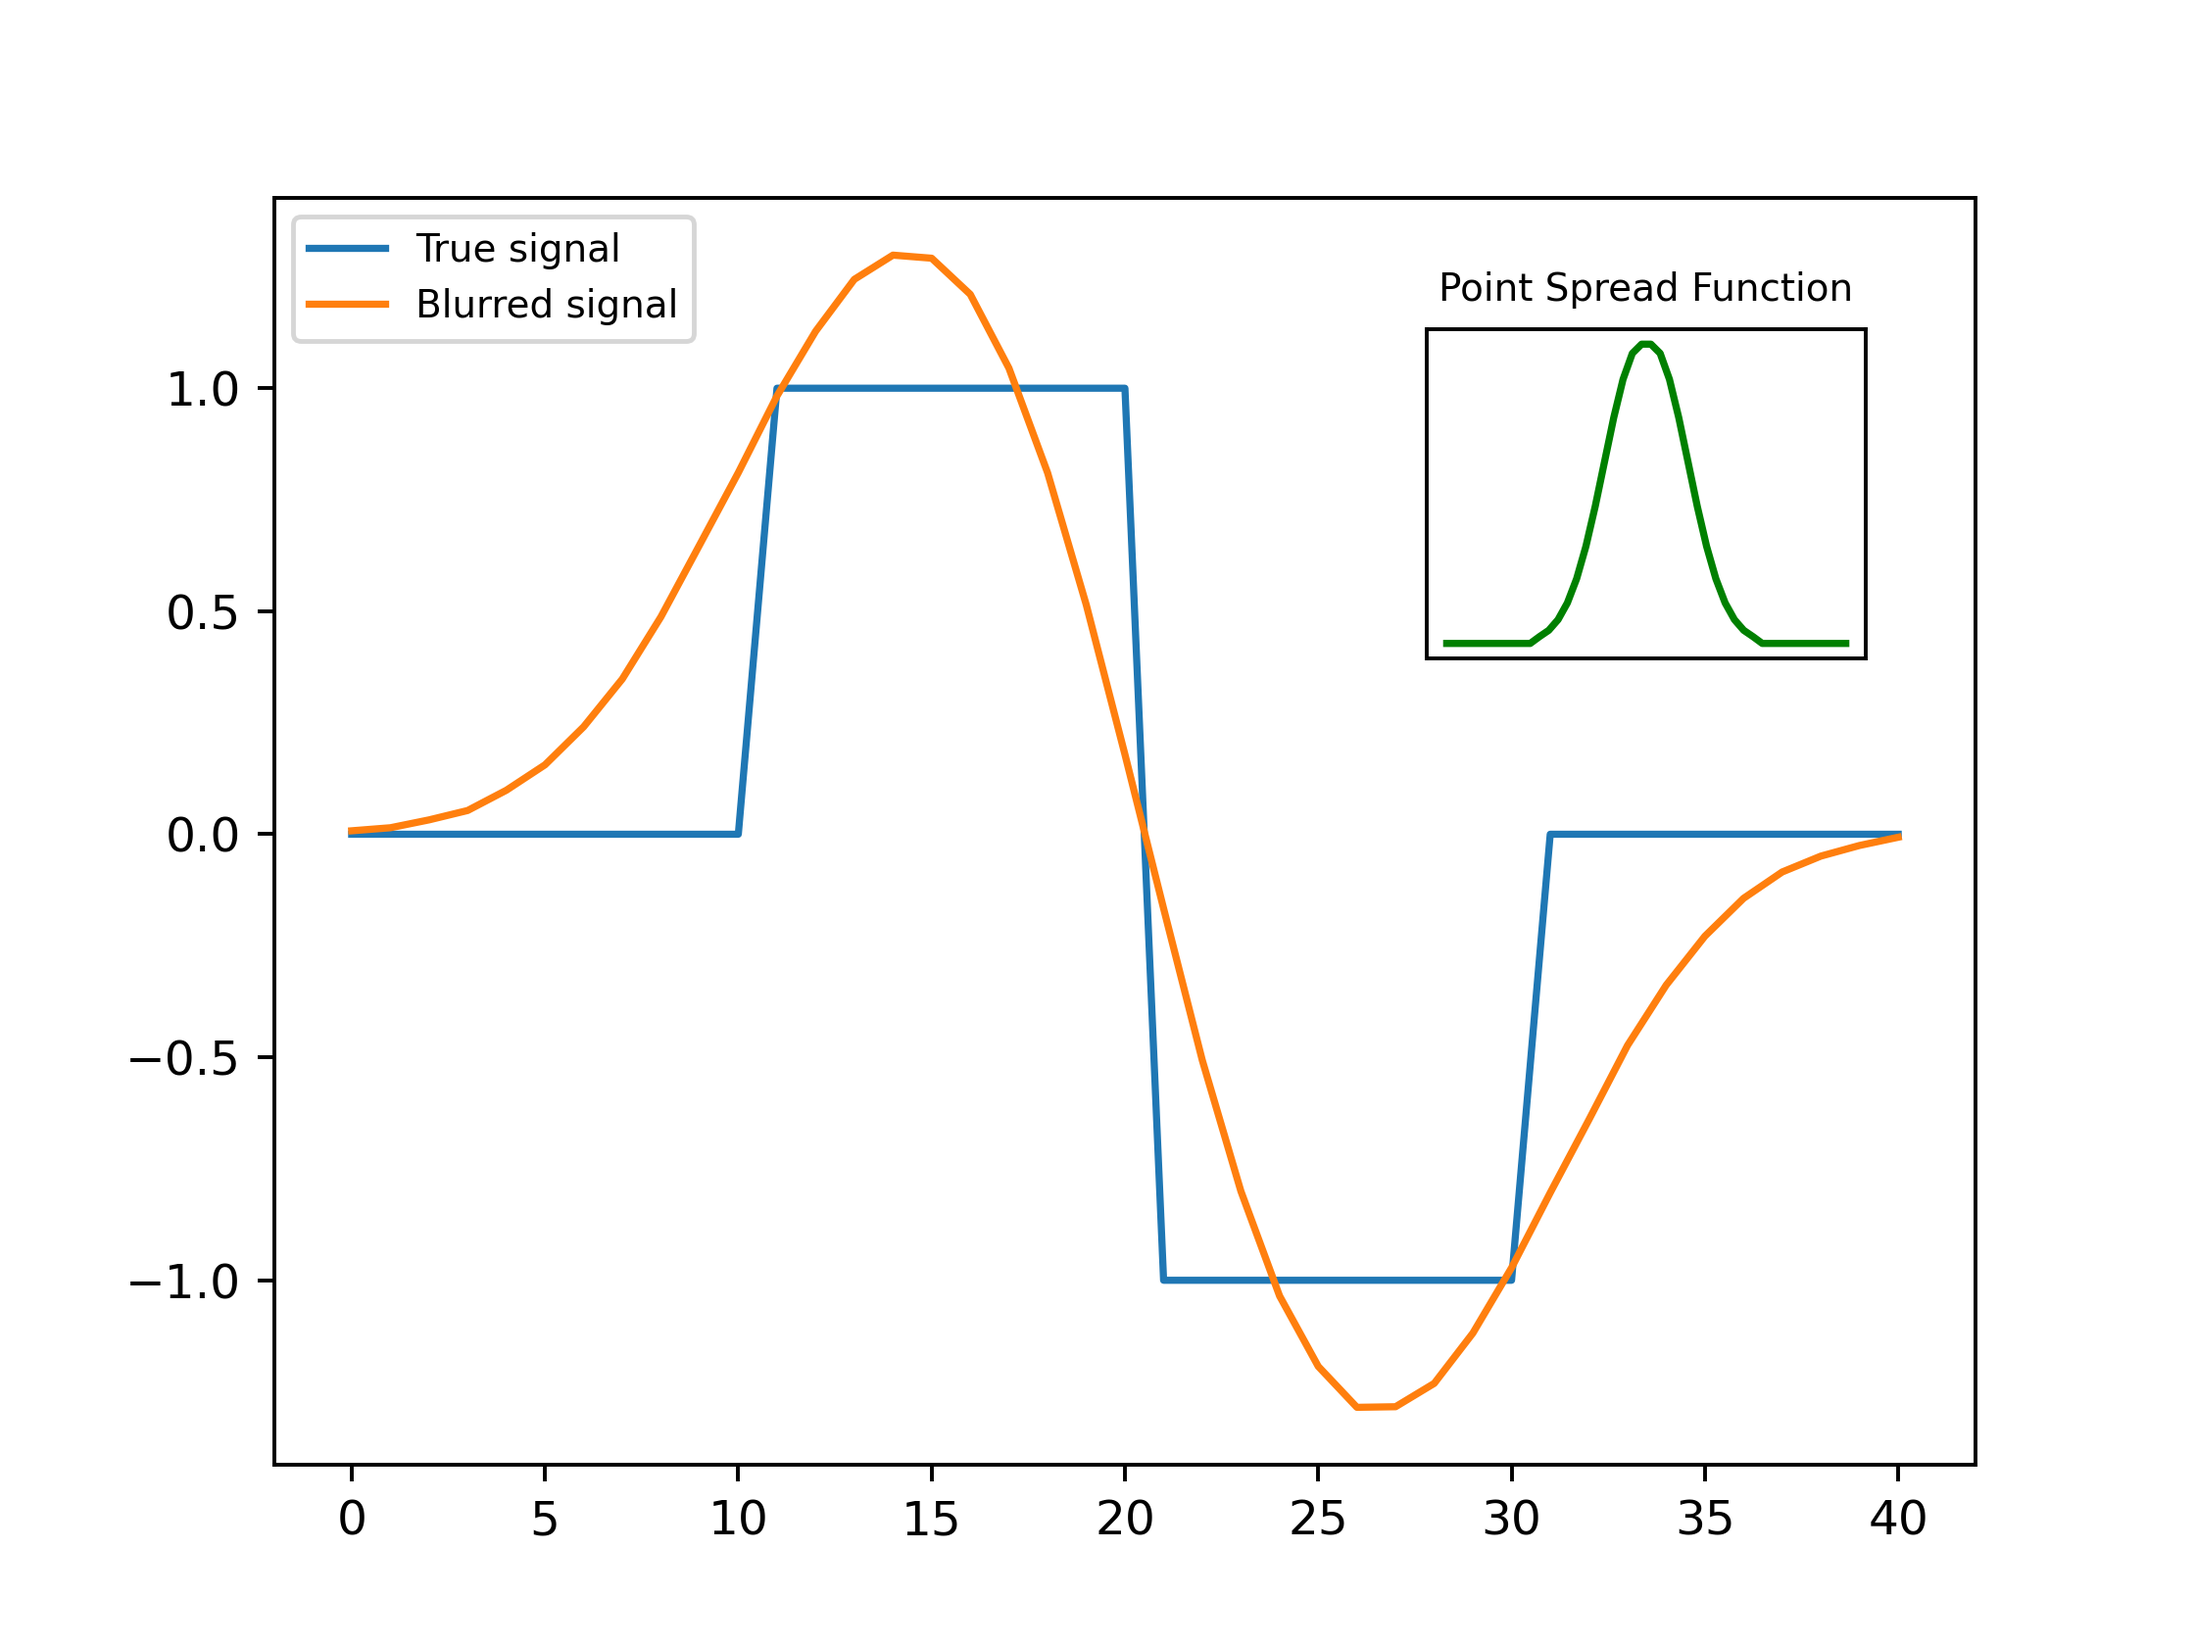
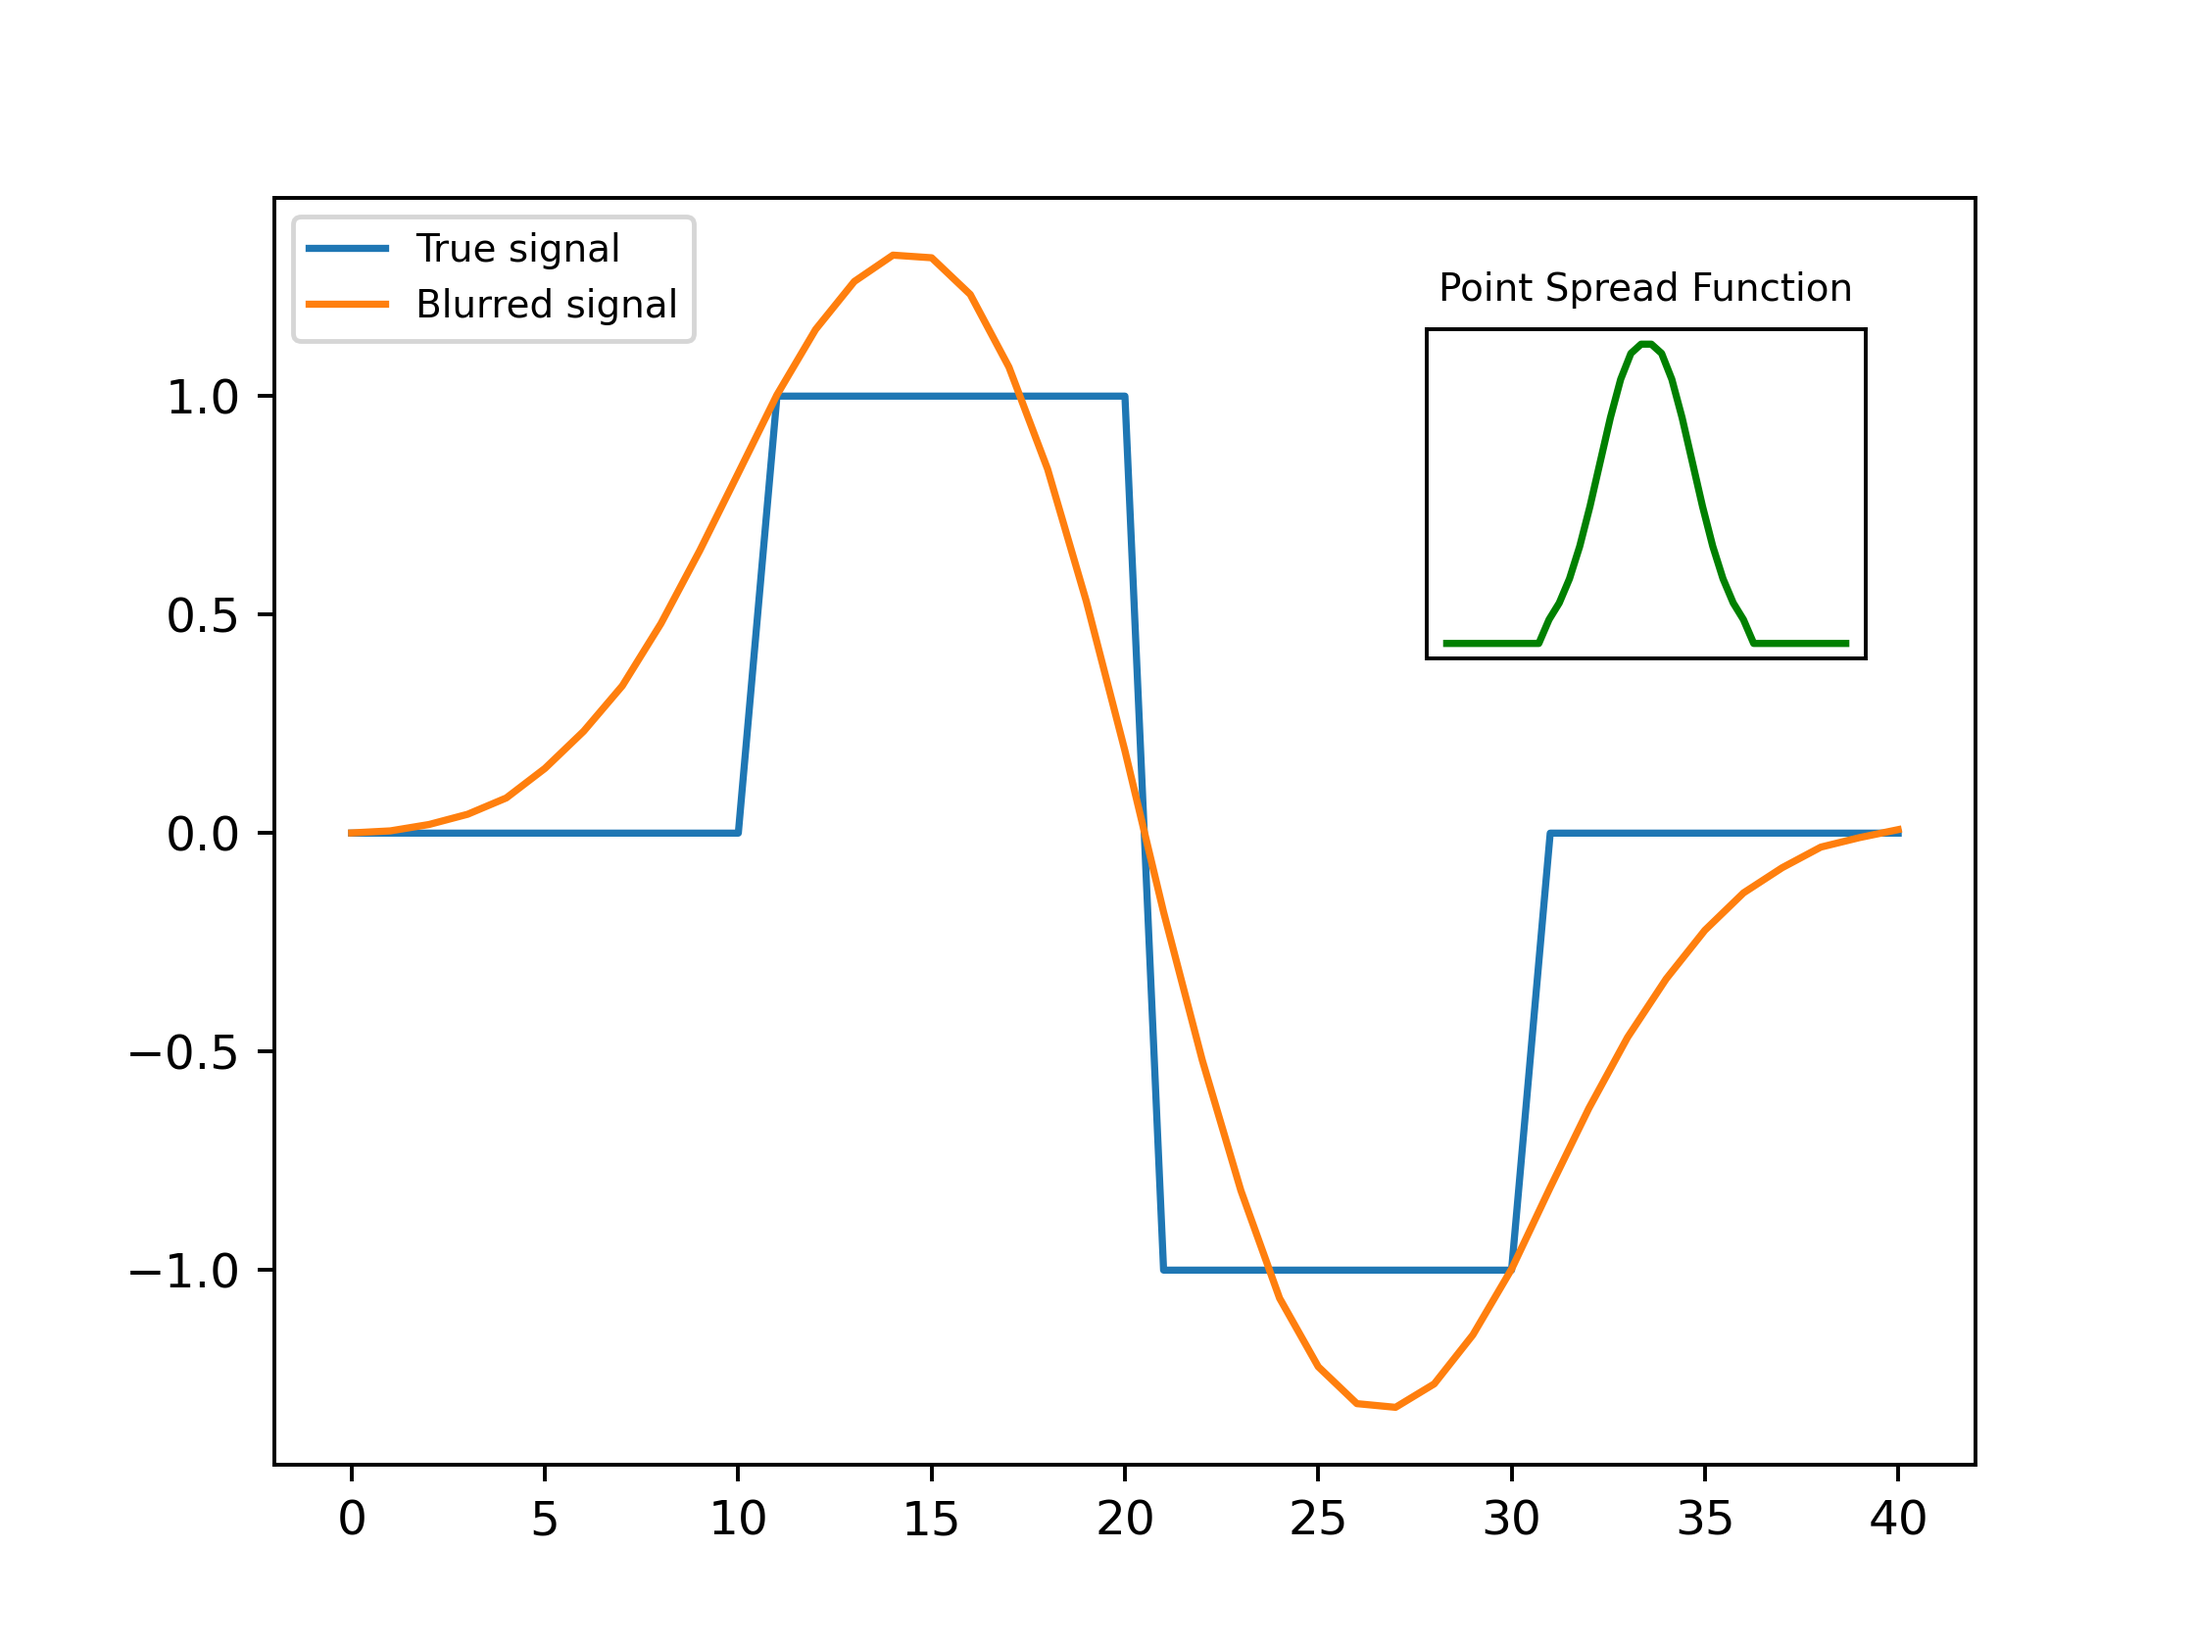
better dpi

diff --git a/Motivation_1D.py b/Motivation_1D.py
@@ -5,7 +5,7 @@ from scipy import linalg
 import matplotlib.pyplot as plt
 
 # parameters
-psf_size = 12
+psf_size = 10
 noise_level = 0.01
 
 # Creating input
@@ -49,19 +49,17 @@ plt.plot(range(b_smooth.size),b_smooth, label = "Blurred signal")
 plt.legend(loc =2, fontsize = 8)
 # small plot
 plt.axes([.65, .6, .2, .2])
-plt.plot(np.append(np.flip(p_plot),p_plot),'g')
+a = plt.plot(np.append(np.flip(p_plot),p_plot),'g')
+plt.axis('on')
 plt.title("Point Spread Function", fontsize=8)
 plt.xticks([])
 plt.yticks([])
 plt.savefig('1dsimple.png',dpi = 350)
 
-# plt.figure(2)
-# plt.plot(np.append(np.flip(p_plot),p_plot))
-# plt.title("Point Spread Function")
-
-# plt.figure(3)
-# plt.plot(range(x.size),x_solve)
-# plt.title("Reconstructed input")
+plt.figure(3)
+plt.plot(range(x.size),x_solve)
+plt.title("Reconstructed input")
+plt.savefig("bad_recon.png", dpi = 350)
 
 # Maybe wanted to do some subplots
 # fig, sub = plt.subplots(3)
